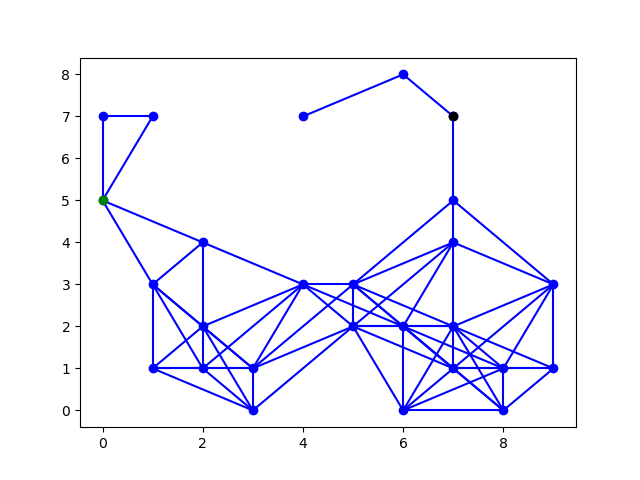
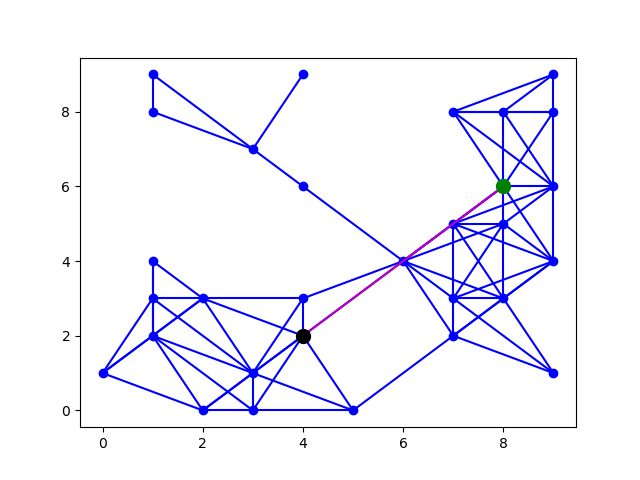
Improved performance of adjacent node calling and added BFS functionality

diff --git a/src/Search.py b/src/Search.py
@@ -1,0 +1,73 @@
+import math
+
+from Graph import Graph
+from Node import Node
+
+
+class Search:
+    '''
+
+    '''
+
+    def __init__(self, graph: Graph, k: int):
+        '''
+
+        '''
+        self.graph = graph
+        self.start = graph.start
+        self.goal = graph.goal
+        self.k = k
+        self.expanded_nodes = []
+        self.avail_node_costs = {self.start:(0,0)} # {node pointer: (path length, path cost)}
+
+    def find_path(self):
+        '''
+
+        :return: an array of Node objects representing the path from start -> goal, returns emtpy array if no path found
+        '''
+        cheapest_node = self.start
+        while cheapest_node is not self.goal:
+            if self.get_cheapest_node() is None:
+                break # TODO is there a better way to handle this?
+            cheapest_node = self.get_cheapest_node()
+            for adj_node in self.get_adj_nodes(cheapest_node):
+                prev_path_len, prev_path_cost = self.avail_node_costs[cheapest_node]
+                distance = self.graph.calc_dist(cheapest_node, adj_node)
+                self.avail_node_costs[adj_node] = prev_path_len + 1, prev_path_cost + distance
+                if adj_node.parent is None:
+                    adj_node.parent = cheapest_node
+            self.expanded_nodes.append(cheapest_node)
+            del self.avail_node_costs[cheapest_node]
+
+        solution_path = []
+        temp_node = self.goal
+        while temp_node is not self.start:
+            solution_path.append(temp_node)
+            temp_node = temp_node.parent
+        solution_path.append(self.start)
+        solution_path.reverse() # Reverse because we built it backwards goal -> start
+        return solution_path
+
+    def get_cheapest_node(self):
+        '''
+        Find the node in available_nodes with the lowest cost to expand
+        :return: The node in available_nodes with the lowest cost
+        '''
+        lowest_cost = math.inf
+        cheapest_node = None
+        for node, (k,cost) in self.avail_node_costs.items():
+            if cost < lowest_cost:
+                lowest_cost = cost
+                cheapest_node = node
+
+        return cheapest_node
+
+    def get_adj_nodes(self, node: Node):
+        '''
+        Return a list of nodes that contain a direct path (of length 1)
+        to the specified node
+
+        :param node: Look for nodes directly connected to this node
+        :return: A list of nodes that are directly connected to the given node
+        '''
+        return self.graph.adjacencies[node.x_pos][node.y_pos]

diff --git a/src/Graph.py b/src/Graph.py
@@ -21,10 +21,11 @@ class Graph:
         self.adj_chance = adj_chance
         self.nearby_threashold = nearby_threshold
         self.nodes = []
-        self.adjacencies = {}
+        self.adjacencies = [[[] for i in range(max_y)] for j in range(max_x)]
         self.fill_graph()
         self.start = self.nodes[random.randint(0,len(self.nodes))]
         self.goal = self.start
+        self.solution = []
         while self.goal == self.start and len(self.nodes) >= 2:
             self.goal = self.nodes[random.randint(0,len(self.nodes))]
 
@@ -86,8 +87,9 @@ class Graph:
         new_node = Node.Node(x_pos, y_pos)
         self.nodes.append(new_node)
         for node in self.nodes:
-            if self.nodes_are_close(new_node, node):
-                self.adjacencies[new_node.name+'To'+node.name] = (new_node, node, self.calc_dist(new_node, node))
+            if self.nodes_are_close(new_node, node) and new_node is not node:
+                # self.adjacencies[new_node.name+'To'+node.name] = (new_node, node, self.calc_dist(new_node, node))
+                self.adjacencies[new_node.x_pos][new_node.y_pos].append(node)
 
     def nodes_are_close(self, nodeA: Node, nodeB: Node):
         '''
@@ -121,14 +123,26 @@ class Graph:
 
         plt.figure()
         plt.subplot(111)
+
+        # Plot each node
         for node in self.nodes:
             plt.plot(node.x_pos, node.y_pos, 'bo')
-        for key, (nodeA, nodeB, _) in self.adjacencies.items():
-            x_vals = [nodeA.x_pos, nodeB.x_pos]
-            y_vals = [nodeA.y_pos, nodeB.y_pos]
-            plt.plot(x_vals, y_vals, 'b-')
-        plt.plot(self.start.x_pos, self.start.y_pos, 'go')
-        plt.plot(self.goal.x_pos, self.goal.y_pos, 'ko')
+
+        # Plot each node connection
+        for x in range(self.max_x):
+            for y in range(self.max_y):
+                for adj_node in self.adjacencies[x][y]:
+                    plt.plot([x,adj_node.x_pos], [y, adj_node.y_pos], 'b-')
+
+        # Plot solution
+        for i in range(0,len(self.solution) - 1):
+            nodeA = self.solution[i]
+            nodeB = self.solution[i + 1]
+            plt.plot([nodeA.x_pos,nodeB.x_pos], [nodeA.y_pos, nodeB.y_pos], 'm-')
+
+        # Plot starting and goal nodes
+        plt.plot(self.start.x_pos, self.start.y_pos, 'go', markersize=10.0)
+        plt.plot(self.goal.x_pos, self.goal.y_pos, 'ko', markersize=10.0)
 
         title = 'graph'
         plt.savefig(title + '.png')

diff --git a/src/Main.py b/src/Main.py
@@ -1,5 +1,15 @@
+from Search import Search
 from src.Graph import Graph
 
 if __name__ == "__main__":
-    graph = Graph()
+    print("Generating new graph")
+    graph = Graph(max_x=10, max_y=10, node_chance=25, adj_chance=30, nearby_threshold=3)
+    print("Saving graph to img")
     graph.save()
+    searcher = Search(graph, 10)
+    solution = searcher.find_path()
+    graph.solution = solution
+    graph.save()
+    # print(solution)
+    # for element in solution:
+    #     print("x " + str(element.x_pos) + " Y " + str(element.y_pos) + "\n")

diff --git a/src/Node.py b/src/Node.py
@@ -6,4 +6,5 @@ class Node():
         self.x_pos = x_pos
         self.y_pos = y_pos
         self.name = "X" + str(x_pos)+'Y' + str(y_pos)
+        self.parent = None
         pass
